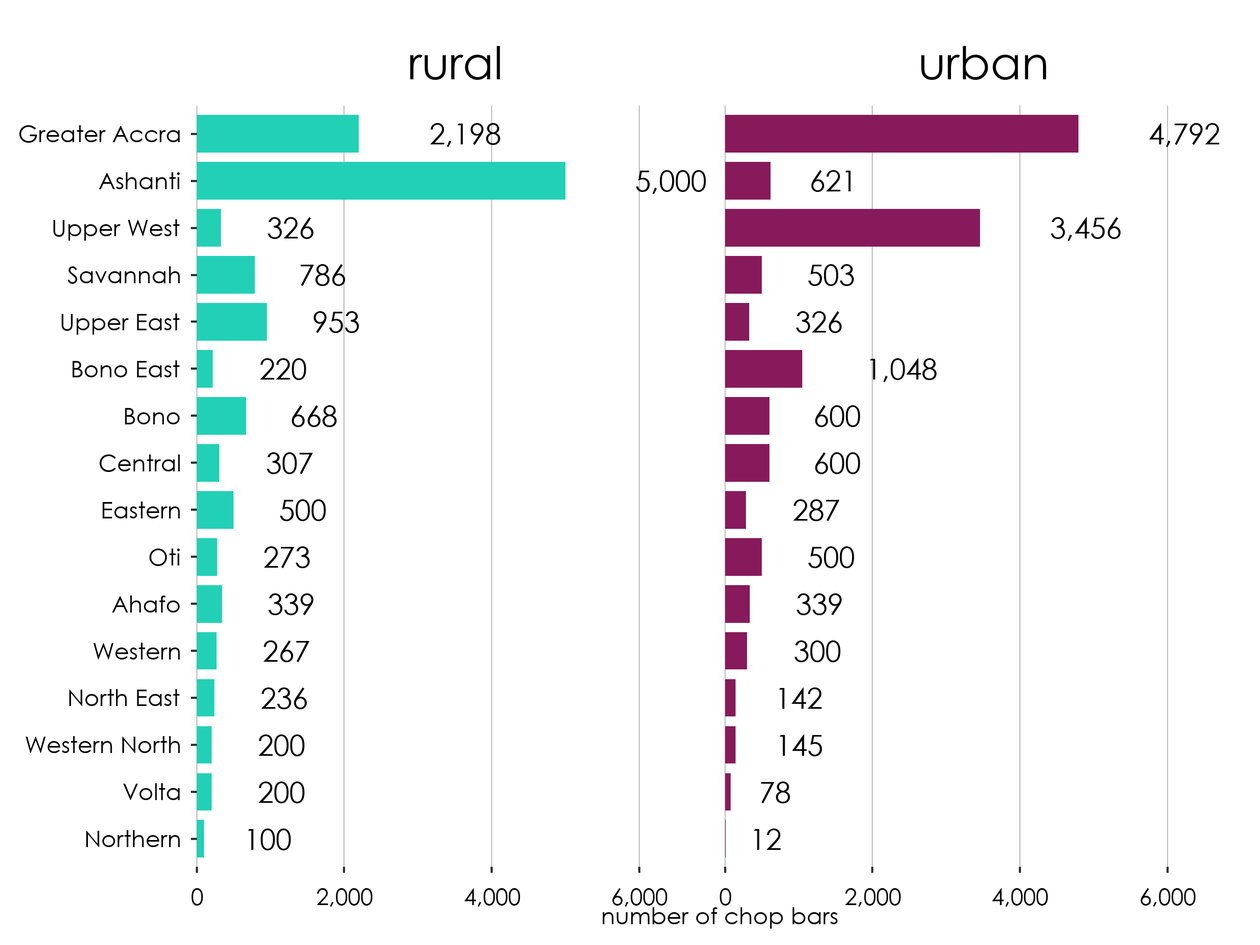
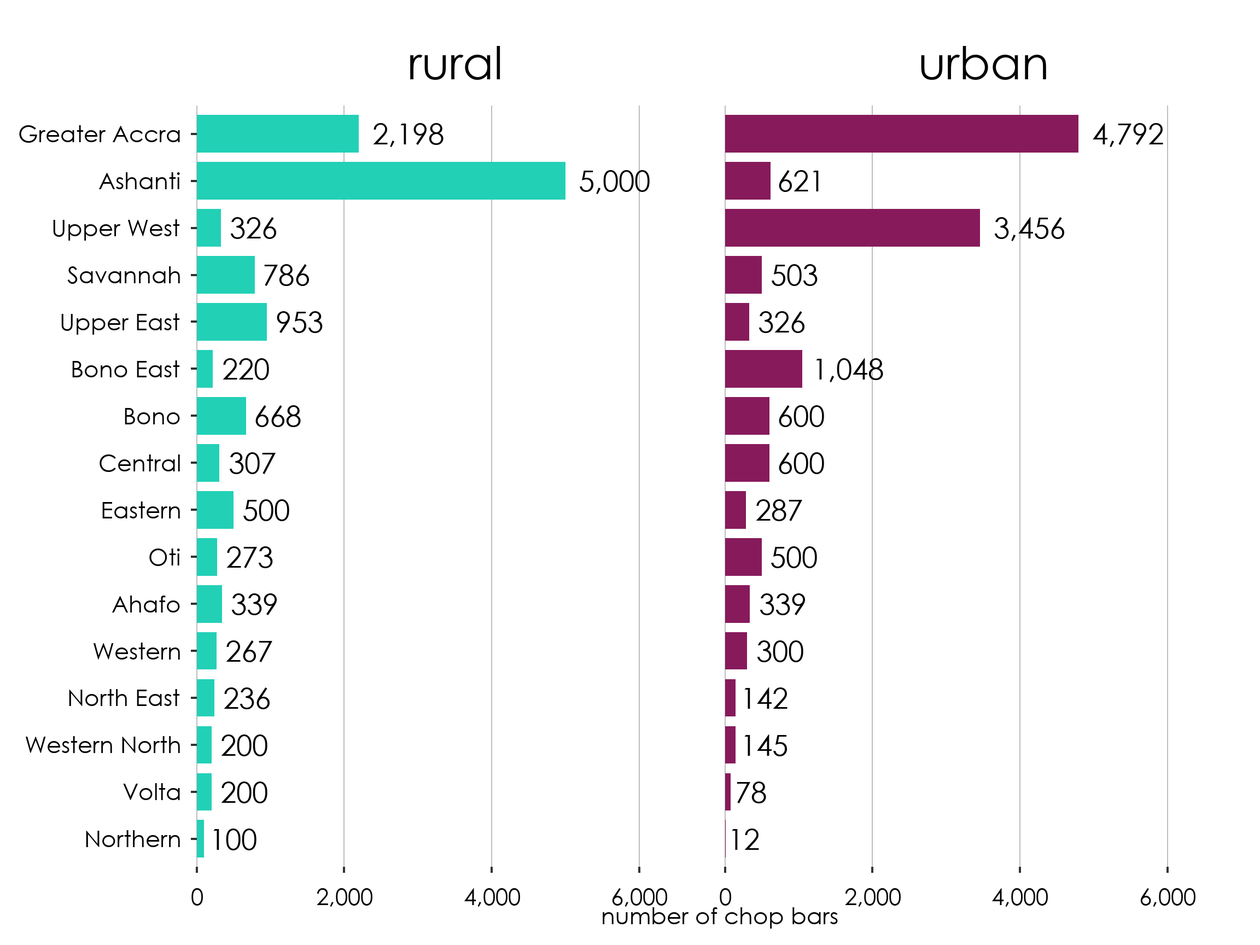
evening_20230316

diff --git a/docs/graphics-guide.html b/docs/graphics-guide.html
@@ -786,7 +786,7 @@ code span.wa { color: #60a0b0; font-weight: bold; font-style: italic; } /* Warni
 <span id="cb4-5"><a href="#cb4-5" aria-hidden="true" tabindex="-1"></a>  <span class="co"># Add a column chart with bars of equal width</span></span>
 <span id="cb4-6"><a href="#cb4-6" aria-hidden="true" tabindex="-1"></a>  <span class="fu">geom_col</span>(<span class="at">width =</span> <span class="fl">0.8</span>) <span class="sc">+</span></span>
 <span id="cb4-7"><a href="#cb4-7" aria-hidden="true" tabindex="-1"></a>    <span class="co"># add text to the end of the plot</span></span>
-<span id="cb4-8"><a href="#cb4-8" aria-hidden="true" tabindex="-1"></a>     <span class="fu">geom_text</span>(<span class="at">mapping =</span> <span class="fu">aes</span>(<span class="at">label =</span> number_of_chop_bars), <span class="at">hjust =</span> <span class="sc">-</span><span class="dv">1</span>) <span class="sc">+</span></span>
+<span id="cb4-8"><a href="#cb4-8" aria-hidden="true" tabindex="-1"></a>     <span class="fu">geom_text</span>(<span class="at">mapping =</span> <span class="fu">aes</span>(<span class="at">label =</span> number_of_chop_bars), <span class="at">hjust =</span> <span class="sc">-</span><span class="fl">0.2</span>) <span class="sc">+</span></span>
 <span id="cb4-9"><a href="#cb4-9" aria-hidden="true" tabindex="-1"></a>  <span class="co"># Apply a custom theme to the plot</span></span>
 <span id="cb4-10"><a href="#cb4-10" aria-hidden="true" tabindex="-1"></a>  <span class="fu">gssthemes</span>() <span class="sc">+</span></span>
 <span id="cb4-11"><a href="#cb4-11" aria-hidden="true" tabindex="-1"></a>    <span class="co"># The expand argument controls whether the range of the y-axis is expanded to include a small margin around the data. </span></span>
@@ -826,7 +826,7 @@ code span.wa { color: #60a0b0; font-weight: bold; font-style: italic; } /* Warni
 <span id="cb5-6"><a href="#cb5-6" aria-hidden="true" tabindex="-1"></a>  <span class="co"># Add a column chart with bars of equal width</span></span>
 <span id="cb5-7"><a href="#cb5-7" aria-hidden="true" tabindex="-1"></a>  <span class="fu">geom_col</span>(<span class="at">width =</span> <span class="fl">0.8</span>) <span class="sc">+</span></span>
 <span id="cb5-8"><a href="#cb5-8" aria-hidden="true" tabindex="-1"></a>    <span class="co"># add text to the end of the plot, and comma at all thousands</span></span>
-<span id="cb5-9"><a href="#cb5-9" aria-hidden="true" tabindex="-1"></a>     <span class="fu">geom_text</span>(<span class="at">mapping =</span> <span class="fu">aes</span>(<span class="at">label =</span> scales<span class="sc">::</span><span class="fu">comma</span>(number_of_chop_bars)), <span class="at">hjust =</span> <span class="sc">-</span><span class="dv">1</span>,) <span class="sc">+</span></span>
+<span id="cb5-9"><a href="#cb5-9" aria-hidden="true" tabindex="-1"></a>     <span class="fu">geom_text</span>(<span class="at">mapping =</span> <span class="fu">aes</span>(<span class="at">label =</span> scales<span class="sc">::</span><span class="fu">comma</span>(number_of_chop_bars)), <span class="at">hjust =</span> <span class="sc">-</span><span class="fl">0.2</span>,) <span class="sc">+</span></span>
 <span id="cb5-10"><a href="#cb5-10" aria-hidden="true" tabindex="-1"></a>  <span class="co"># Apply a custom theme to the plot</span></span>
 <span id="cb5-11"><a href="#cb5-11" aria-hidden="true" tabindex="-1"></a>  <span class="fu">gssthemes</span>() <span class="sc">+</span></span>
 <span id="cb5-12"><a href="#cb5-12" aria-hidden="true" tabindex="-1"></a>    <span class="co"># The expand argument controls whether the range of the y-axis is expanded to include a small margin around the data. </span></span>
@@ -1113,7 +1113,7 @@ code span.wa { color: #60a0b0; font-weight: bold; font-style: italic; } /* Warni
 <div class="sourceCode cell-code" id="cb8"><pre class="sourceCode r code-with-copy"><code class="sourceCode r"><span id="cb8-1"><a href="#cb8-1" aria-hidden="true" tabindex="-1"></a>n_chopbars_df_longformat <span class="sc">%&gt;%</span> </span>
 <span id="cb8-2"><a href="#cb8-2" aria-hidden="true" tabindex="-1"></a>  <span class="fu">ggplot</span>(<span class="at">mapping =</span> <span class="fu">aes</span>(<span class="at">x =</span> <span class="fu">reorder</span>(region,number_of_chop_bars), <span class="at">fill =</span> locality ,  <span class="at">y =</span> number_of_chop_bars)) <span class="sc">+</span></span>
 <span id="cb8-3"><a href="#cb8-3" aria-hidden="true" tabindex="-1"></a>  <span class="fu">geom_col</span>(<span class="at">width =</span> <span class="fl">0.8</span>, <span class="at">position =</span> <span class="st">"dodge"</span>) <span class="sc">+</span></span>
-<span id="cb8-4"><a href="#cb8-4" aria-hidden="true" tabindex="-1"></a>    <span class="fu">geom_text</span>(<span class="at">mapping =</span> <span class="fu">aes</span>(<span class="at">label =</span> scales<span class="sc">::</span><span class="fu">comma</span>(number_of_chop_bars)), <span class="at">hjust =</span> <span class="sc">-</span><span class="dv">1</span>, </span>
+<span id="cb8-4"><a href="#cb8-4" aria-hidden="true" tabindex="-1"></a>    <span class="fu">geom_text</span>(<span class="at">mapping =</span> <span class="fu">aes</span>(<span class="at">label =</span> scales<span class="sc">::</span><span class="fu">comma</span>(number_of_chop_bars)), <span class="at">hjust =</span> <span class="sc">-</span><span class="fl">0.2</span>, </span>
 <span id="cb8-5"><a href="#cb8-5" aria-hidden="true" tabindex="-1"></a>                        <span class="at">position =</span> <span class="fu">position_dodge</span>(<span class="at">width =</span> <span class="fl">0.8</span>)) <span class="sc">+</span></span>
 <span id="cb8-6"><a href="#cb8-6" aria-hidden="true" tabindex="-1"></a>  <span class="fu">gssthemes</span>() <span class="sc">+</span></span>
 <span id="cb8-7"><a href="#cb8-7" aria-hidden="true" tabindex="-1"></a>  <span class="fu">scale_y_continuous</span>( <span class="at">expand =</span> <span class="fu">c</span>( <span class="dv">0</span>, <span class="dv">0</span> ),</span>
@@ -1165,7 +1165,7 @@ code span.wa { color: #60a0b0; font-weight: bold; font-style: italic; } /* Warni
 <span id="cb10-11"><a href="#cb10-11" aria-hidden="true" tabindex="-1"></a>                                         <span class="at">y =</span> number_of_chop_bars,</span>
 <span id="cb10-12"><a href="#cb10-12" aria-hidden="true" tabindex="-1"></a>                                          <span class="at">fill =</span> highlight)) <span class="sc">+</span></span>
 <span id="cb10-13"><a href="#cb10-13" aria-hidden="true" tabindex="-1"></a>  <span class="fu">geom_col</span>(<span class="at">width =</span> <span class="fl">0.8</span>) <span class="sc">+</span></span>
-<span id="cb10-14"><a href="#cb10-14" aria-hidden="true" tabindex="-1"></a>    <span class="fu">geom_text</span>(<span class="at">mapping =</span> <span class="fu">aes</span>(<span class="at">label =</span> scales<span class="sc">::</span><span class="fu">comma</span>(number_of_chop_bars)), <span class="at">hjust =</span> <span class="sc">-</span><span class="dv">1</span>) <span class="sc">+</span></span>
+<span id="cb10-14"><a href="#cb10-14" aria-hidden="true" tabindex="-1"></a>    <span class="fu">geom_text</span>(<span class="at">mapping =</span> <span class="fu">aes</span>(<span class="at">label =</span> scales<span class="sc">::</span><span class="fu">comma</span>(number_of_chop_bars)), <span class="at">hjust =</span> <span class="sc">-</span><span class="fl">0.2</span>) <span class="sc">+</span></span>
 <span id="cb10-15"><a href="#cb10-15" aria-hidden="true" tabindex="-1"></a>  <span class="fu">gssthemes</span>() <span class="sc">+</span></span>
 <span id="cb10-16"><a href="#cb10-16" aria-hidden="true" tabindex="-1"></a>  <span class="fu">scale_y_continuous</span>( <span class="at">expand =</span> <span class="fu">c</span>( <span class="dv">0</span>, <span class="dv">0</span> ),</span>
 <span id="cb10-17"><a href="#cb10-17" aria-hidden="true" tabindex="-1"></a>                      <span class="at">limits =</span> nicelimits,</span>
@@ -1237,7 +1237,7 @@ code span.wa { color: #60a0b0; font-weight: bold; font-style: italic; } /* Warni
 <div class="sourceCode cell-code" id="cb12"><pre class="sourceCode r code-with-copy"><code class="sourceCode r"><span id="cb12-1"><a href="#cb12-1" aria-hidden="true" tabindex="-1"></a>n_chopbars_df_long_labels <span class="sc">%&gt;%</span> </span>
 <span id="cb12-2"><a href="#cb12-2" aria-hidden="true" tabindex="-1"></a>  <span class="fu">ggplot</span>(<span class="at">mapping =</span> <span class="fu">aes</span>(<span class="at">x =</span> <span class="fu">str_wrap</span>(question, <span class="dv">20</span>), <span class="at">y =</span> count)) <span class="sc">+</span></span>
 <span id="cb12-3"><a href="#cb12-3" aria-hidden="true" tabindex="-1"></a>  <span class="fu">geom_col</span>(<span class="at">width =</span> <span class="fl">0.8</span>) <span class="sc">+</span></span>
-<span id="cb12-4"><a href="#cb12-4" aria-hidden="true" tabindex="-1"></a>     <span class="fu">geom_text</span>(<span class="at">mapping =</span> <span class="fu">aes</span>(<span class="at">label =</span> count), <span class="at">hjust =</span> <span class="sc">-</span><span class="dv">1</span>) <span class="sc">+</span></span>
+<span id="cb12-4"><a href="#cb12-4" aria-hidden="true" tabindex="-1"></a>    <span class="fu">geom_text</span>(<span class="at">mapping =</span> <span class="fu">aes</span>(<span class="at">label =</span> scales<span class="sc">::</span><span class="fu">comma</span>(count)), <span class="at">hjust =</span> <span class="sc">-</span><span class="fl">0.2</span>) <span class="sc">+</span></span>
 <span id="cb12-5"><a href="#cb12-5" aria-hidden="true" tabindex="-1"></a>  <span class="fu">gssthemes</span>() <span class="sc">+</span></span>
 <span id="cb12-6"><a href="#cb12-6" aria-hidden="true" tabindex="-1"></a>  <span class="fu">scale_y_continuous</span>( <span class="at">expand =</span> <span class="fu">c</span>( <span class="dv">0</span>, <span class="dv">1</span> ),</span>
 <span id="cb12-7"><a href="#cb12-7" aria-hidden="true" tabindex="-1"></a>                      <span class="at">limits =</span> nicelimits,</span>
@@ -1525,7 +1525,7 @@ code span.wa { color: #60a0b0; font-weight: bold; font-style: italic; } /* Warni
 <div class="sourceCode cell-code" id="cb17"><pre class="sourceCode r code-with-copy"><code class="sourceCode r"><span id="cb17-1"><a href="#cb17-1" aria-hidden="true" tabindex="-1"></a>n_chopbars_df_longformat <span class="sc">%&gt;%</span> </span>
 <span id="cb17-2"><a href="#cb17-2" aria-hidden="true" tabindex="-1"></a>  <span class="fu">ggplot</span>(<span class="at">mapping =</span> <span class="fu">aes</span>(<span class="at">x =</span> <span class="fu">reorder</span>(region,number_of_chop_bars), <span class="at">fill =</span> locality ,  <span class="at">y =</span> number_of_chop_bars)) <span class="sc">+</span></span>
 <span id="cb17-3"><a href="#cb17-3" aria-hidden="true" tabindex="-1"></a>  <span class="fu">geom_col</span>(<span class="at">width =</span> <span class="fl">0.8</span>, <span class="at">position =</span> <span class="st">"dodge"</span>) <span class="sc">+</span></span>
-<span id="cb17-4"><a href="#cb17-4" aria-hidden="true" tabindex="-1"></a>    <span class="fu">geom_text</span>(<span class="at">mapping =</span> <span class="fu">aes</span>(<span class="at">label =</span> scales<span class="sc">::</span><span class="fu">comma</span>(number_of_chop_bars)), <span class="at">hjust =</span> <span class="sc">-</span><span class="dv">1</span>, </span>
+<span id="cb17-4"><a href="#cb17-4" aria-hidden="true" tabindex="-1"></a>    <span class="fu">geom_text</span>(<span class="at">mapping =</span> <span class="fu">aes</span>(<span class="at">label =</span> scales<span class="sc">::</span><span class="fu">comma</span>(number_of_chop_bars)), <span class="at">hjust =</span> <span class="sc">-</span><span class="fl">0.2</span>, </span>
 <span id="cb17-5"><a href="#cb17-5" aria-hidden="true" tabindex="-1"></a>                        <span class="at">position =</span> <span class="fu">position_dodge</span>(<span class="at">width =</span> <span class="fl">0.8</span>)) <span class="sc">+</span></span>
 <span id="cb17-6"><a href="#cb17-6" aria-hidden="true" tabindex="-1"></a></span>
 <span id="cb17-7"><a href="#cb17-7" aria-hidden="true" tabindex="-1"></a>  <span class="fu">gssthemes</span>() <span class="sc">+</span></span>
@@ -1892,7 +1892,7 @@ code span.wa { color: #60a0b0; font-weight: bold; font-style: italic; } /* Warni
 <span id="cb19-15"><a href="#cb19-15" aria-hidden="true" tabindex="-1"></a>                     <span class="at">fill =</span> national_color)<span class="sc">+</span></span>
 <span id="cb19-16"><a href="#cb19-16" aria-hidden="true" tabindex="-1"></a>    <span class="fu">geom_text</span>(<span class="at">mapping =</span> <span class="fu">aes</span>(<span class="at">label =</span> scales<span class="sc">::</span><span class="fu">comma</span>(number_of_chop_bars),</span>
 <span id="cb19-17"><a href="#cb19-17" aria-hidden="true" tabindex="-1"></a>                                                    <span class="at">group =</span> <span class="fu">reorder</span>(quarter, <span class="fu">desc</span>(quarter))),</span>
-<span id="cb19-18"><a href="#cb19-18" aria-hidden="true" tabindex="-1"></a>                        <span class="at">hjust =</span> <span class="sc">-</span><span class="dv">1</span>,</span>
+<span id="cb19-18"><a href="#cb19-18" aria-hidden="true" tabindex="-1"></a>                        <span class="at">hjust =</span> <span class="sc">-</span><span class="fl">0.2</span>,</span>
 <span id="cb19-19"><a href="#cb19-19" aria-hidden="true" tabindex="-1"></a>                        <span class="at">position =</span> <span class="fu">position_dodge</span>(<span class="at">width =</span> <span class="fl">0.8</span>)</span>
 <span id="cb19-20"><a href="#cb19-20" aria-hidden="true" tabindex="-1"></a>    ) <span class="sc">+</span></span>
 <span id="cb19-21"><a href="#cb19-21" aria-hidden="true" tabindex="-1"></a>    <span class="fu">gssthemes</span>() <span class="sc">+</span></span>
@@ -1927,10 +1927,10 @@ code span.wa { color: #60a0b0; font-weight: bold; font-style: italic; } /* Warni
 <span id="cb19-50"><a href="#cb19-50" aria-hidden="true" tabindex="-1"></a>                     <span class="fu">aes</span>( <span class="at">alpha =</span> <span class="fu">reorder</span>(quarter, <span class="fu">desc</span>(quarter))),</span>
 <span id="cb19-51"><a href="#cb19-51" aria-hidden="true" tabindex="-1"></a>                     <span class="at">position =</span> <span class="st">"dodge"</span>,</span>
 <span id="cb19-52"><a href="#cb19-52" aria-hidden="true" tabindex="-1"></a>                     <span class="at">fill =</span> urban_color) <span class="sc">+</span></span>
-<span id="cb19-53"><a href="#cb19-53" aria-hidden="true" tabindex="-1"></a>    <span class="fu">geom_text</span>(<span class="at">mapping =</span> <span class="fu">aes</span>(<span class="at">label =</span> scales<span class="sc">::</span><span class="fu">comma</span>(number_of_chop_bars)), <span class="at">hjust =</span> <span class="sc">-</span><span class="dv">1</span>, </span>
+<span id="cb19-53"><a href="#cb19-53" aria-hidden="true" tabindex="-1"></a>    <span class="fu">geom_text</span>(<span class="at">mapping =</span> <span class="fu">aes</span>(<span class="at">label =</span> scales<span class="sc">::</span><span class="fu">comma</span>(number_of_chop_bars)), <span class="at">hjust =</span> <span class="sc">-</span><span class="fl">0.2</span>, </span>
 <span id="cb19-54"><a href="#cb19-54" aria-hidden="true" tabindex="-1"></a>                        <span class="at">position =</span> <span class="fu">position_dodge</span>(<span class="at">width =</span> <span class="fl">0.8</span>)) <span class="sc">+</span></span>
 <span id="cb19-55"><a href="#cb19-55" aria-hidden="true" tabindex="-1"></a>    <span class="fu">gssthemes</span>() <span class="sc">+</span></span>
-<span id="cb19-56"><a href="#cb19-56" aria-hidden="true" tabindex="-1"></a>    <span class="fu">scale_y_continuous</span>( <span class="at">limits =</span> <span class="fu">c</span>(<span class="dv">0</span>, <span class="dv">8000</span>),</span>
+<span id="cb19-56"><a href="#cb19-56" aria-hidden="true" tabindex="-1"></a>    <span class="fu">scale_y_continuous</span>( <span class="at">limits =</span> <span class="fu">c</span>(<span class="dv">0</span>, <span class="dv">10000</span>),</span>
 <span id="cb19-57"><a href="#cb19-57" aria-hidden="true" tabindex="-1"></a>                                            <span class="at">labels =</span> scales<span class="sc">::</span>comma) <span class="sc">+</span></span>
 <span id="cb19-58"><a href="#cb19-58" aria-hidden="true" tabindex="-1"></a>    <span class="fu">scale_alpha_manual</span>(<span class="at">values =</span> <span class="fu">seq</span>(</span>
 <span id="cb19-59"><a href="#cb19-59" aria-hidden="true" tabindex="-1"></a>        <span class="at">from =</span> <span class="fl">0.5</span>,</span>
@@ -1961,10 +1961,10 @@ code span.wa { color: #60a0b0; font-weight: bold; font-style: italic; } /* Warni
 <span id="cb19-84"><a href="#cb19-84" aria-hidden="true" tabindex="-1"></a>                     <span class="fu">aes</span>( <span class="at">alpha =</span> <span class="fu">reorder</span>(quarter, <span class="fu">desc</span>(quarter))),</span>
 <span id="cb19-85"><a href="#cb19-85" aria-hidden="true" tabindex="-1"></a>                     <span class="at">position =</span> <span class="st">"dodge"</span>,</span>
 <span id="cb19-86"><a href="#cb19-86" aria-hidden="true" tabindex="-1"></a>                     <span class="at">fill =</span> rural_color) <span class="sc">+</span></span>
-<span id="cb19-87"><a href="#cb19-87" aria-hidden="true" tabindex="-1"></a>    <span class="fu">geom_text</span>(<span class="at">mapping =</span> <span class="fu">aes</span>(<span class="at">label =</span> scales<span class="sc">::</span><span class="fu">comma</span>(number_of_chop_bars)), <span class="at">hjust =</span> <span class="sc">-</span><span class="dv">1</span>, </span>
+<span id="cb19-87"><a href="#cb19-87" aria-hidden="true" tabindex="-1"></a>    <span class="fu">geom_text</span>(<span class="at">mapping =</span> <span class="fu">aes</span>(<span class="at">label =</span> scales<span class="sc">::</span><span class="fu">comma</span>(number_of_chop_bars)), <span class="at">hjust =</span> <span class="sc">-</span><span class="fl">0.2</span>, </span>
 <span id="cb19-88"><a href="#cb19-88" aria-hidden="true" tabindex="-1"></a>                        <span class="at">position =</span> <span class="fu">position_dodge</span>(<span class="at">width =</span> <span class="fl">0.8</span>)) <span class="sc">+</span></span>
 <span id="cb19-89"><a href="#cb19-89" aria-hidden="true" tabindex="-1"></a>    <span class="fu">gssthemes</span>() <span class="sc">+</span></span>
-<span id="cb19-90"><a href="#cb19-90" aria-hidden="true" tabindex="-1"></a>    <span class="fu">scale_y_continuous</span>( <span class="at">limits =</span> <span class="fu">c</span>(<span class="dv">0</span>, <span class="dv">8000</span>),</span>
+<span id="cb19-90"><a href="#cb19-90" aria-hidden="true" tabindex="-1"></a>    <span class="fu">scale_y_continuous</span>( <span class="at">limits =</span> <span class="fu">c</span>(<span class="dv">0</span>, <span class="dv">10000</span>),</span>
 <span id="cb19-91"><a href="#cb19-91" aria-hidden="true" tabindex="-1"></a>                                            <span class="at">labels =</span> scales<span class="sc">::</span>comma) <span class="sc">+</span></span>
 <span id="cb19-92"><a href="#cb19-92" aria-hidden="true" tabindex="-1"></a>    <span class="fu">scale_alpha_manual</span>(<span class="at">values =</span> <span class="fu">seq</span>(</span>
 <span id="cb19-93"><a href="#cb19-93" aria-hidden="true" tabindex="-1"></a>        <span class="at">from =</span> <span class="fl">0.5</span>,</span>
@@ -2009,7 +2009,7 @@ code span.wa { color: #60a0b0; font-weight: bold; font-style: italic; } /* Warni
 <span id="cb20-6"><a href="#cb20-6" aria-hidden="true" tabindex="-1"></a>                                             <span class="at">y =</span> number_of_chop_bars,</span>
 <span id="cb20-7"><a href="#cb20-7" aria-hidden="true" tabindex="-1"></a>                                             <span class="at">fill =</span> highlight)) <span class="sc">+</span></span>
 <span id="cb20-8"><a href="#cb20-8" aria-hidden="true" tabindex="-1"></a>    <span class="fu">geom_col</span>(<span class="at">width =</span> <span class="fl">0.8</span>) <span class="sc">+</span></span>
-<span id="cb20-9"><a href="#cb20-9" aria-hidden="true" tabindex="-1"></a>    <span class="fu">geom_text</span>(<span class="at">mapping =</span> <span class="fu">aes</span>(<span class="at">label =</span> scales<span class="sc">::</span><span class="fu">comma</span>(number_of_chop_bars)), <span class="at">hjust =</span> <span class="dv">0</span>) <span class="sc">+</span></span>
+<span id="cb20-9"><a href="#cb20-9" aria-hidden="true" tabindex="-1"></a>    <span class="fu">geom_text</span>(<span class="at">mapping =</span> <span class="fu">aes</span>(<span class="at">label =</span> scales<span class="sc">::</span><span class="fu">comma</span>(number_of_chop_bars)), <span class="at">hjust =</span> <span class="sc">-</span><span class="fl">0.2</span>) <span class="sc">+</span></span>
 <span id="cb20-10"><a href="#cb20-10" aria-hidden="true" tabindex="-1"></a>    <span class="fu">gssthemes</span>() <span class="sc">+</span></span>
 <span id="cb20-11"><a href="#cb20-11" aria-hidden="true" tabindex="-1"></a>    <span class="fu">scale_y_continuous</span>( <span class="at">expand =</span> <span class="fu">c</span>( <span class="dv">0</span>, <span class="dv">0</span> ),</span>
 <span id="cb20-12"><a href="#cb20-12" aria-hidden="true" tabindex="-1"></a>                                            <span class="at">limits =</span> nicelimits,</span>
@@ -2895,7 +2895,7 @@ window.document.addEventListener("DOMContentLoaded", function (event) {
 <span id="cb24-477"><a href="#cb24-477" aria-hidden="true" tabindex="-1"></a>  <span class="co"># Add a column chart with bars of equal width</span></span>
 <span id="cb24-478"><a href="#cb24-478" aria-hidden="true" tabindex="-1"></a>  <span class="fu">geom_col</span>(<span class="at">width =</span> <span class="fl">0.8</span>) <span class="sc">+</span></span>
 <span id="cb24-479"><a href="#cb24-479" aria-hidden="true" tabindex="-1"></a>    <span class="co"># add text to the end of the plot</span></span>
-<span id="cb24-480"><a href="#cb24-480" aria-hidden="true" tabindex="-1"></a>     <span class="fu">geom_text</span>(<span class="at">mapping =</span> <span class="fu">aes</span>(<span class="at">label =</span> number_of_chop_bars), <span class="at">hjust =</span> <span class="sc">-</span><span class="dv">1</span>) <span class="sc">+</span></span>
+<span id="cb24-480"><a href="#cb24-480" aria-hidden="true" tabindex="-1"></a>     <span class="fu">geom_text</span>(<span class="at">mapping =</span> <span class="fu">aes</span>(<span class="at">label =</span> number_of_chop_bars), <span class="at">hjust =</span> <span class="sc">-</span><span class="fl">0.2</span>) <span class="sc">+</span></span>
 <span id="cb24-481"><a href="#cb24-481" aria-hidden="true" tabindex="-1"></a>  <span class="co"># Apply a custom theme to the plot</span></span>
 <span id="cb24-482"><a href="#cb24-482" aria-hidden="true" tabindex="-1"></a>  <span class="fu">gssthemes</span>() <span class="sc">+</span></span>
 <span id="cb24-483"><a href="#cb24-483" aria-hidden="true" tabindex="-1"></a>    <span class="co"># The expand argument controls whether the range of the y-axis is expanded to include a small margin around the data. </span></span>
@@ -2931,7 +2931,7 @@ window.document.addEventListener("DOMContentLoaded", function (event) {
 <span id="cb24-513"><a href="#cb24-513" aria-hidden="true" tabindex="-1"></a>  <span class="co"># Add a column chart with bars of equal width</span></span>
 <span id="cb24-514"><a href="#cb24-514" aria-hidden="true" tabindex="-1"></a>  <span class="fu">geom_col</span>(<span class="at">width =</span> <span class="fl">0.8</span>) <span class="sc">+</span></span>
 <span id="cb24-515"><a href="#cb24-515" aria-hidden="true" tabindex="-1"></a>    <span class="co"># add text to the end of the plot, and comma at all thousands</span></span>
-<span id="cb24-516"><a href="#cb24-516" aria-hidden="true" tabindex="-1"></a>     <span class="fu">geom_text</span>(<span class="at">mapping =</span> <span class="fu">aes</span>(<span class="at">label =</span> scales<span class="sc">::</span><span class="fu">comma</span>(number_of_chop_bars)), <span class="at">hjust =</span> <span class="sc">-</span><span class="dv">1</span>,) <span class="sc">+</span></span>
+<span id="cb24-516"><a href="#cb24-516" aria-hidden="true" tabindex="-1"></a>     <span class="fu">geom_text</span>(<span class="at">mapping =</span> <span class="fu">aes</span>(<span class="at">label =</span> scales<span class="sc">::</span><span class="fu">comma</span>(number_of_chop_bars)), <span class="at">hjust =</span> <span class="sc">-</span><span class="fl">0.2</span>,) <span class="sc">+</span></span>
 <span id="cb24-517"><a href="#cb24-517" aria-hidden="true" tabindex="-1"></a>  <span class="co"># Apply a custom theme to the plot</span></span>
 <span id="cb24-518"><a href="#cb24-518" aria-hidden="true" tabindex="-1"></a>  <span class="fu">gssthemes</span>() <span class="sc">+</span></span>
 <span id="cb24-519"><a href="#cb24-519" aria-hidden="true" tabindex="-1"></a>    <span class="co"># The expand argument controls whether the range of the y-axis is expanded to include a small margin around the data. </span></span>
@@ -3003,7 +3003,7 @@ window.document.addEventListener("DOMContentLoaded", function (event) {
 <span id="cb24-587"><a href="#cb24-587" aria-hidden="true" tabindex="-1"></a>n_chopbars_df_longformat <span class="sc">%&gt;%</span> </span>
 <span id="cb24-588"><a href="#cb24-588" aria-hidden="true" tabindex="-1"></a>  <span class="fu">ggplot</span>(<span class="at">mapping =</span> <span class="fu">aes</span>(<span class="at">x =</span> <span class="fu">reorder</span>(region,number_of_chop_bars), <span class="at">fill =</span> locality ,  <span class="at">y =</span> number_of_chop_bars)) <span class="sc">+</span></span>
 <span id="cb24-589"><a href="#cb24-589" aria-hidden="true" tabindex="-1"></a>  <span class="fu">geom_col</span>(<span class="at">width =</span> <span class="fl">0.8</span>, <span class="at">position =</span> <span class="st">"dodge"</span>) <span class="sc">+</span></span>
-<span id="cb24-590"><a href="#cb24-590" aria-hidden="true" tabindex="-1"></a>    <span class="fu">geom_text</span>(<span class="at">mapping =</span> <span class="fu">aes</span>(<span class="at">label =</span> scales<span class="sc">::</span><span class="fu">comma</span>(number_of_chop_bars)), <span class="at">hjust =</span> <span class="sc">-</span><span class="dv">1</span>, </span>
+<span id="cb24-590"><a href="#cb24-590" aria-hidden="true" tabindex="-1"></a>    <span class="fu">geom_text</span>(<span class="at">mapping =</span> <span class="fu">aes</span>(<span class="at">label =</span> scales<span class="sc">::</span><span class="fu">comma</span>(number_of_chop_bars)), <span class="at">hjust =</span> <span class="sc">-</span><span class="fl">0.2</span>, </span>
 <span id="cb24-591"><a href="#cb24-591" aria-hidden="true" tabindex="-1"></a>                        <span class="at">position =</span> <span class="fu">position_dodge</span>(<span class="at">width =</span> <span class="fl">0.8</span>)) <span class="sc">+</span></span>
 <span id="cb24-592"><a href="#cb24-592" aria-hidden="true" tabindex="-1"></a>  <span class="fu">gssthemes</span>() <span class="sc">+</span></span>
 <span id="cb24-593"><a href="#cb24-593" aria-hidden="true" tabindex="-1"></a>  <span class="fu">scale_y_continuous</span>( <span class="at">expand =</span> <span class="fu">c</span>( <span class="dv">0</span>, <span class="dv">0</span> ),</span>
@@ -3050,7 +3050,7 @@ window.document.addEventListener("DOMContentLoaded", function (event) {
 <span id="cb24-636"><a href="#cb24-636" aria-hidden="true" tabindex="-1"></a>                                         <span class="at">y =</span> number_of_chop_bars,</span>
 <span id="cb24-637"><a href="#cb24-637" aria-hidden="true" tabindex="-1"></a>                                          <span class="at">fill =</span> highlight)) <span class="sc">+</span></span>
 <span id="cb24-638"><a href="#cb24-638" aria-hidden="true" tabindex="-1"></a>  <span class="fu">geom_col</span>(<span class="at">width =</span> <span class="fl">0.8</span>) <span class="sc">+</span></span>
-<span id="cb24-639"><a href="#cb24-639" aria-hidden="true" tabindex="-1"></a>    <span class="fu">geom_text</span>(<span class="at">mapping =</span> <span class="fu">aes</span>(<span class="at">label =</span> scales<span class="sc">::</span><span class="fu">comma</span>(number_of_chop_bars)), <span class="at">hjust =</span> <span class="sc">-</span><span class="dv">1</span>) <span class="sc">+</span></span>
+<span id="cb24-639"><a href="#cb24-639" aria-hidden="true" tabindex="-1"></a>    <span class="fu">geom_text</span>(<span class="at">mapping =</span> <span class="fu">aes</span>(<span class="at">label =</span> scales<span class="sc">::</span><span class="fu">comma</span>(number_of_chop_bars)), <span class="at">hjust =</span> <span class="sc">-</span><span class="fl">0.2</span>) <span class="sc">+</span></span>
 <span id="cb24-640"><a href="#cb24-640" aria-hidden="true" tabindex="-1"></a>  <span class="fu">gssthemes</span>() <span class="sc">+</span></span>
 <span id="cb24-641"><a href="#cb24-641" aria-hidden="true" tabindex="-1"></a>  <span class="fu">scale_y_continuous</span>( <span class="at">expand =</span> <span class="fu">c</span>( <span class="dv">0</span>, <span class="dv">0</span> ),</span>
 <span id="cb24-642"><a href="#cb24-642" aria-hidden="true" tabindex="-1"></a>                      <span class="at">limits =</span> nicelimits,</span>
@@ -3090,7 +3090,7 @@ window.document.addEventListener("DOMContentLoaded", function (event) {
 <span id="cb24-680"><a href="#cb24-680" aria-hidden="true" tabindex="-1"></a>n_chopbars_df_long_labels <span class="sc">%&gt;%</span> </span>
 <span id="cb24-681"><a href="#cb24-681" aria-hidden="true" tabindex="-1"></a>  <span class="fu">ggplot</span>(<span class="at">mapping =</span> <span class="fu">aes</span>(<span class="at">x =</span> <span class="fu">str_wrap</span>(question, <span class="dv">20</span>), <span class="at">y =</span> count)) <span class="sc">+</span></span>
 <span id="cb24-682"><a href="#cb24-682" aria-hidden="true" tabindex="-1"></a>  <span class="fu">geom_col</span>(<span class="at">width =</span> <span class="fl">0.8</span>) <span class="sc">+</span></span>
-<span id="cb24-683"><a href="#cb24-683" aria-hidden="true" tabindex="-1"></a>     <span class="fu">geom_text</span>(<span class="at">mapping =</span> <span class="fu">aes</span>(<span class="at">label =</span> count), <span class="at">hjust =</span> <span class="sc">-</span><span class="dv">1</span>) <span class="sc">+</span></span>
+<span id="cb24-683"><a href="#cb24-683" aria-hidden="true" tabindex="-1"></a>    <span class="fu">geom_text</span>(<span class="at">mapping =</span> <span class="fu">aes</span>(<span class="at">label =</span> scales<span class="sc">::</span><span class="fu">comma</span>(count)), <span class="at">hjust =</span> <span class="sc">-</span><span class="fl">0.2</span>) <span class="sc">+</span></span>
 <span id="cb24-684"><a href="#cb24-684" aria-hidden="true" tabindex="-1"></a>  <span class="fu">gssthemes</span>() <span class="sc">+</span></span>
 <span id="cb24-685"><a href="#cb24-685" aria-hidden="true" tabindex="-1"></a>  <span class="fu">scale_y_continuous</span>( <span class="at">expand =</span> <span class="fu">c</span>( <span class="dv">0</span>, <span class="dv">1</span> ),</span>
 <span id="cb24-686"><a href="#cb24-686" aria-hidden="true" tabindex="-1"></a>                      <span class="at">limits =</span> nicelimits,</span>
@@ -3228,7 +3228,7 @@ window.document.addEventListener("DOMContentLoaded", function (event) {
 <span id="cb24-828"><a href="#cb24-828" aria-hidden="true" tabindex="-1"></a>n_chopbars_df_longformat <span class="sc">%&gt;%</span> </span>
 <span id="cb24-829"><a href="#cb24-829" aria-hidden="true" tabindex="-1"></a>  <span class="fu">ggplot</span>(<span class="at">mapping =</span> <span class="fu">aes</span>(<span class="at">x =</span> <span class="fu">reorder</span>(region,number_of_chop_bars), <span class="at">fill =</span> locality ,  <span class="at">y =</span> number_of_chop_bars)) <span class="sc">+</span></span>
 <span id="cb24-830"><a href="#cb24-830" aria-hidden="true" tabindex="-1"></a>  <span class="fu">geom_col</span>(<span class="at">width =</span> <span class="fl">0.8</span>, <span class="at">position =</span> <span class="st">"dodge"</span>) <span class="sc">+</span></span>
-<span id="cb24-831"><a href="#cb24-831" aria-hidden="true" tabindex="-1"></a>    <span class="fu">geom_text</span>(<span class="at">mapping =</span> <span class="fu">aes</span>(<span class="at">label =</span> scales<span class="sc">::</span><span class="fu">comma</span>(number_of_chop_bars)), <span class="at">hjust =</span> <span class="sc">-</span><span class="dv">1</span>, </span>
+<span id="cb24-831"><a href="#cb24-831" aria-hidden="true" tabindex="-1"></a>    <span class="fu">geom_text</span>(<span class="at">mapping =</span> <span class="fu">aes</span>(<span class="at">label =</span> scales<span class="sc">::</span><span class="fu">comma</span>(number_of_chop_bars)), <span class="at">hjust =</span> <span class="sc">-</span><span class="fl">0.2</span>, </span>
 <span id="cb24-832"><a href="#cb24-832" aria-hidden="true" tabindex="-1"></a>                        <span class="at">position =</span> <span class="fu">position_dodge</span>(<span class="at">width =</span> <span class="fl">0.8</span>)) <span class="sc">+</span></span>
 <span id="cb24-833"><a href="#cb24-833" aria-hidden="true" tabindex="-1"></a></span>
 <span id="cb24-834"><a href="#cb24-834" aria-hidden="true" tabindex="-1"></a>  <span class="fu">gssthemes</span>() <span class="sc">+</span></span>
@@ -3322,7 +3322,7 @@ window.document.addEventListener("DOMContentLoaded", function (event) {
 <span id="cb24-926"><a href="#cb24-926" aria-hidden="true" tabindex="-1"></a>                     <span class="at">fill =</span> national_color)<span class="sc">+</span></span>
 <span id="cb24-927"><a href="#cb24-927" aria-hidden="true" tabindex="-1"></a>    <span class="fu">geom_text</span>(<span class="at">mapping =</span> <span class="fu">aes</span>(<span class="at">label =</span> scales<span class="sc">::</span><span class="fu">comma</span>(number_of_chop_bars),</span>
 <span id="cb24-928"><a href="#cb24-928" aria-hidden="true" tabindex="-1"></a>                                                    <span class="at">group =</span> <span class="fu">reorder</span>(quarter, <span class="fu">desc</span>(quarter))),</span>
-<span id="cb24-929"><a href="#cb24-929" aria-hidden="true" tabindex="-1"></a>                        <span class="at">hjust =</span> <span class="sc">-</span><span class="dv">1</span>,</span>
+<span id="cb24-929"><a href="#cb24-929" aria-hidden="true" tabindex="-1"></a>                        <span class="at">hjust =</span> <span class="sc">-</span><span class="fl">0.2</span>,</span>
 <span id="cb24-930"><a href="#cb24-930" aria-hidden="true" tabindex="-1"></a>                        <span class="at">position =</span> <span class="fu">position_dodge</span>(<span class="at">width =</span> <span class="fl">0.8</span>)</span>
 <span id="cb24-931"><a href="#cb24-931" aria-hidden="true" tabindex="-1"></a>    ) <span class="sc">+</span></span>
 <span id="cb24-932"><a href="#cb24-932" aria-hidden="true" tabindex="-1"></a>    <span class="fu">gssthemes</span>() <span class="sc">+</span></span>
@@ -3357,10 +3357,10 @@ window.document.addEventListener("DOMContentLoaded", function (event) {
 <span id="cb24-961"><a href="#cb24-961" aria-hidden="true" tabindex="-1"></a>                     <span class="fu">aes</span>( <span class="at">alpha =</span> <span class="fu">reorder</span>(quarter, <span class="fu">desc</span>(quarter))),</span>
 <span id="cb24-962"><a href="#cb24-962" aria-hidden="true" tabindex="-1"></a>                     <span class="at">position =</span> <span class="st">"dodge"</span>,</span>
 <span id="cb24-963"><a href="#cb24-963" aria-hidden="true" tabindex="-1"></a>                     <span class="at">fill =</span> urban_color) <span class="sc">+</span></span>
-<span id="cb24-964"><a href="#cb24-964" aria-hidden="true" tabindex="-1"></a>    <span class="fu">geom_text</span>(<span class="at">mapping =</span> <span class="fu">aes</span>(<span class="at">label =</span> scales<span class="sc">::</span><span class="fu">comma</span>(number_of_chop_bars)), <span class="at">hjust =</span> <span class="sc">-</span><span class="dv">1</span>, </span>
+<span id="cb24-964"><a href="#cb24-964" aria-hidden="true" tabindex="-1"></a>    <span class="fu">geom_text</span>(<span class="at">mapping =</span> <span class="fu">aes</span>(<span class="at">label =</span> scales<span class="sc">::</span><span class="fu">comma</span>(number_of_chop_bars)), <span class="at">hjust =</span> <span class="sc">-</span><span class="fl">0.2</span>, </span>
 <span id="cb24-965"><a href="#cb24-965" aria-hidden="true" tabindex="-1"></a>                        <span class="at">position =</span> <span class="fu">position_dodge</span>(<span class="at">width =</span> <span class="fl">0.8</span>)) <span class="sc">+</span></span>
 <span id="cb24-966"><a href="#cb24-966" aria-hidden="true" tabindex="-1"></a>    <span class="fu">gssthemes</span>() <span class="sc">+</span></span>
-<span id="cb24-967"><a href="#cb24-967" aria-hidden="true" tabindex="-1"></a>    <span class="fu">scale_y_continuous</span>( <span class="at">limits =</span> <span class="fu">c</span>(<span class="dv">0</span>, <span class="dv">8000</span>),</span>
+<span id="cb24-967"><a href="#cb24-967" aria-hidden="true" tabindex="-1"></a>    <span class="fu">scale_y_continuous</span>( <span class="at">limits =</span> <span class="fu">c</span>(<span class="dv">0</span>, <span class="dv">10000</span>),</span>
 <span id="cb24-968"><a href="#cb24-968" aria-hidden="true" tabindex="-1"></a>                                            <span class="at">labels =</span> scales<span class="sc">::</span>comma) <span class="sc">+</span></span>
 <span id="cb24-969"><a href="#cb24-969" aria-hidden="true" tabindex="-1"></a>    <span class="fu">scale_alpha_manual</span>(<span class="at">values =</span> <span class="fu">seq</span>(</span>
 <span id="cb24-970"><a href="#cb24-970" aria-hidden="true" tabindex="-1"></a>        <span class="at">from =</span> <span class="fl">0.5</span>,</span>
@@ -3391,10 +3391,10 @@ window.document.addEventListener("DOMContentLoaded", function (event) {
 <span id="cb24-995"><a href="#cb24-995" aria-hidden="true" tabindex="-1"></a>                     <span class="fu">aes</span>( <span class="at">alpha =</span> <span class="fu">reorder</span>(quarter, <span class="fu">desc</span>(quarter))),</span>
 <span id="cb24-996"><a href="#cb24-996" aria-hidden="true" tabindex="-1"></a>                     <span class="at">position =</span> <span class="st">"dodge"</span>,</span>
 <span id="cb24-997"><a href="#cb24-997" aria-hidden="true" tabindex="-1"></a>                     <span class="at">fill =</span> rural_color) <span class="sc">+</span></span>
-<span id="cb24-998"><a href="#cb24-998" aria-hidden="true" tabindex="-1"></a>    <span class="fu">geom_text</span>(<span class="at">mapping =</span> <span class="fu">aes</span>(<span class="at">label =</span> scales<span class="sc">::</span><span class="fu">comma</span>(number_of_chop_bars)), <span class="at">hjust =</span> <span class="sc">-</span><span class="dv">1</span>, </span>
+<span id="cb24-998"><a href="#cb24-998" aria-hidden="true" tabindex="-1"></a>    <span class="fu">geom_text</span>(<span class="at">mapping =</span> <span class="fu">aes</span>(<span class="at">label =</span> scales<span class="sc">::</span><span class="fu">comma</span>(number_of_chop_bars)), <span class="at">hjust =</span> <span class="sc">-</span><span class="fl">0.2</span>, </span>
 <span id="cb24-999"><a href="#cb24-999" aria-hidden="true" tabindex="-1"></a>                        <span class="at">position =</span> <span class="fu">position_dodge</span>(<span class="at">width =</span> <span class="fl">0.8</span>)) <span class="sc">+</span></span>
 <span id="cb24-1000"><a href="#cb24-1000" aria-hidden="true" tabindex="-1"></a>    <span class="fu">gssthemes</span>() <span class="sc">+</span></span>
-<span id="cb24-1001"><a href="#cb24-1001" aria-hidden="true" tabindex="-1"></a>    <span class="fu">scale_y_continuous</span>( <span class="at">limits =</span> <span class="fu">c</span>(<span class="dv">0</span>, <span class="dv">8000</span>),</span>
+<span id="cb24-1001"><a href="#cb24-1001" aria-hidden="true" tabindex="-1"></a>    <span class="fu">scale_y_continuous</span>( <span class="at">limits =</span> <span class="fu">c</span>(<span class="dv">0</span>, <span class="dv">10000</span>),</span>
 <span id="cb24-1002"><a href="#cb24-1002" aria-hidden="true" tabindex="-1"></a>                                            <span class="at">labels =</span> scales<span class="sc">::</span>comma) <span class="sc">+</span></span>
 <span id="cb24-1003"><a href="#cb24-1003" aria-hidden="true" tabindex="-1"></a>    <span class="fu">scale_alpha_manual</span>(<span class="at">values =</span> <span class="fu">seq</span>(</span>
 <span id="cb24-1004"><a href="#cb24-1004" aria-hidden="true" tabindex="-1"></a>        <span class="at">from =</span> <span class="fl">0.5</span>,</span>
@@ -3435,7 +3435,7 @@ window.document.addEventListener("DOMContentLoaded", function (event) {
 <span id="cb24-1041"><a href="#cb24-1041" aria-hidden="true" tabindex="-1"></a>                                             <span class="at">y =</span> number_of_chop_bars,</span>
 <span id="cb24-1042"><a href="#cb24-1042" aria-hidden="true" tabindex="-1"></a>                                             <span class="at">fill =</span> highlight)) <span class="sc">+</span></span>
 <span id="cb24-1043"><a href="#cb24-1043" aria-hidden="true" tabindex="-1"></a>    <span class="fu">geom_col</span>(<span class="at">width =</span> <span class="fl">0.8</span>) <span class="sc">+</span></span>
-<span id="cb24-1044"><a href="#cb24-1044" aria-hidden="true" tabindex="-1"></a>    <span class="fu">geom_text</span>(<span class="at">mapping =</span> <span class="fu">aes</span>(<span class="at">label =</span> scales<span class="sc">::</span><span class="fu">comma</span>(number_of_chop_bars)), <span class="at">hjust =</span> <span class="dv">0</span>) <span class="sc">+</span></span>
+<span id="cb24-1044"><a href="#cb24-1044" aria-hidden="true" tabindex="-1"></a>    <span class="fu">geom_text</span>(<span class="at">mapping =</span> <span class="fu">aes</span>(<span class="at">label =</span> scales<span class="sc">::</span><span class="fu">comma</span>(number_of_chop_bars)), <span class="at">hjust =</span> <span class="sc">-</span><span class="fl">0.2</span>) <span class="sc">+</span></span>
 <span id="cb24-1045"><a href="#cb24-1045" aria-hidden="true" tabindex="-1"></a>    <span class="fu">gssthemes</span>() <span class="sc">+</span></span>
 <span id="cb24-1046"><a href="#cb24-1046" aria-hidden="true" tabindex="-1"></a>    <span class="fu">scale_y_continuous</span>( <span class="at">expand =</span> <span class="fu">c</span>( <span class="dv">0</span>, <span class="dv">0</span> ),</span>
 <span id="cb24-1047"><a href="#cb24-1047" aria-hidden="true" tabindex="-1"></a>                                            <span class="at">limits =</span> nicelimits,</span>
